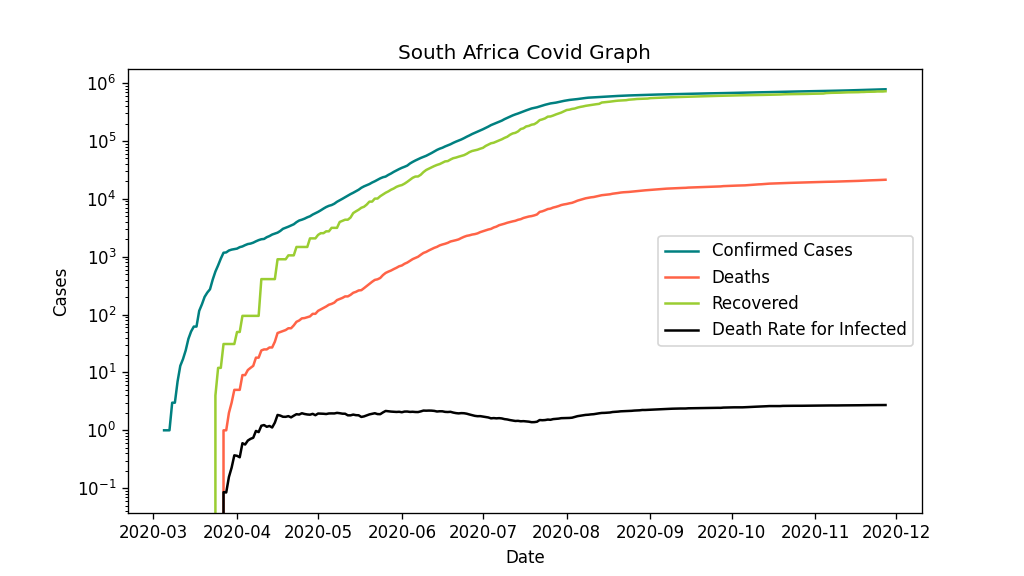
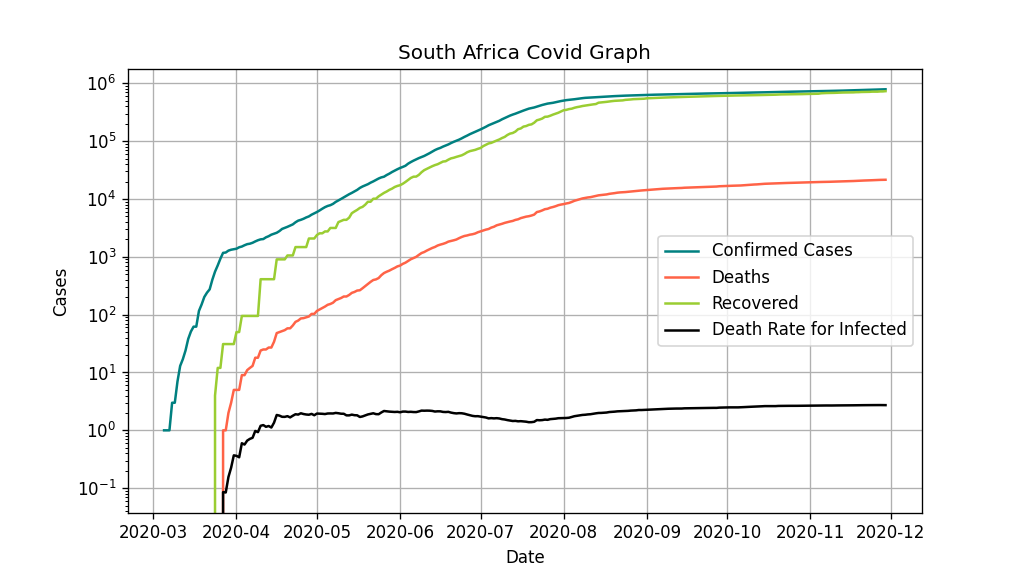
Added gridlines.

diff --git a/covidStats.py b/covidStats.py
@@ -57,4 +57,5 @@ ax.legend(['Confirmed Cases', 'Deaths', 'Recovered', 'Death Rate for Infected'])
 ax.set_title("South Africa Covid Graph")
 ax.xaxis.set_label_text("Date")
 ax.yaxis.set_label_text("Cases")
+ax.grid(True)
 fig.savefig("Covid19SA.pdf",dpi=120)
